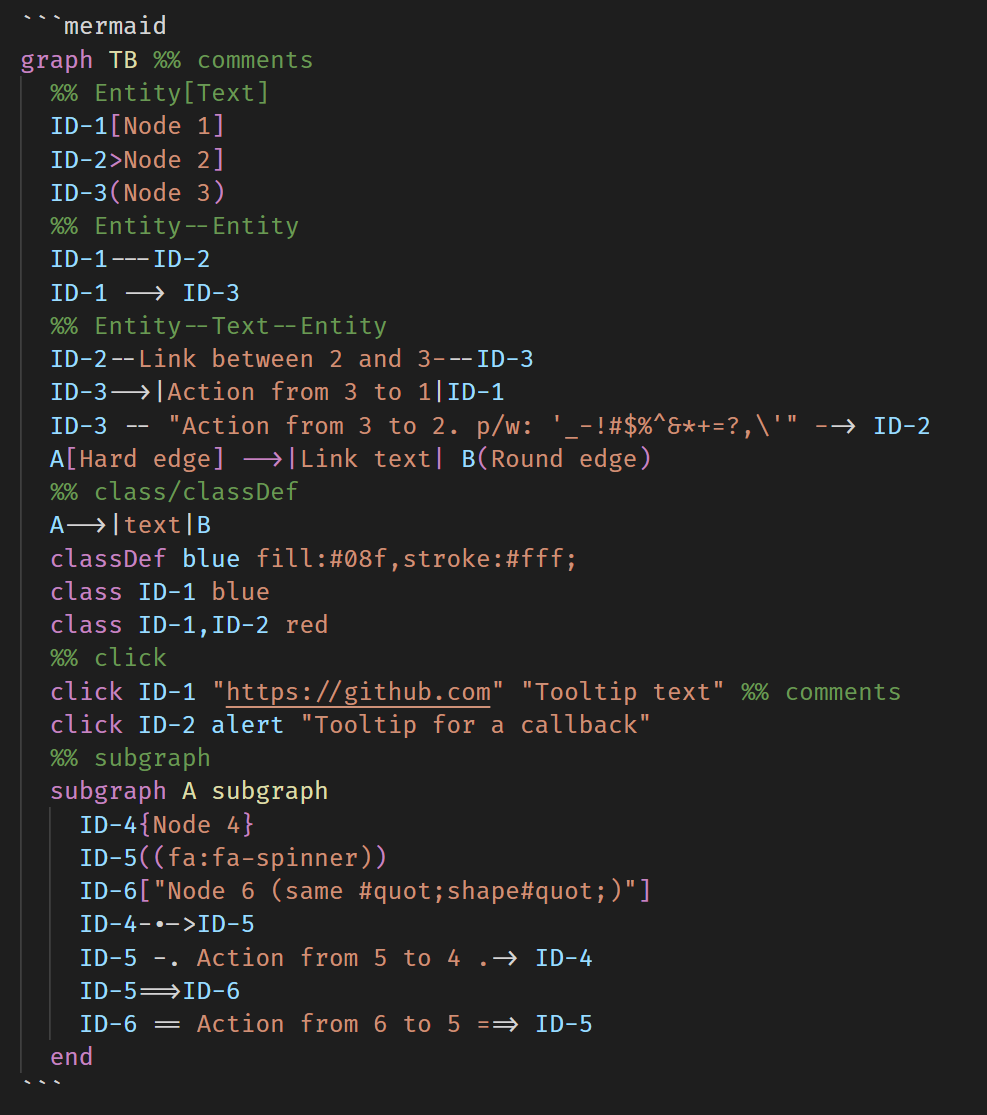
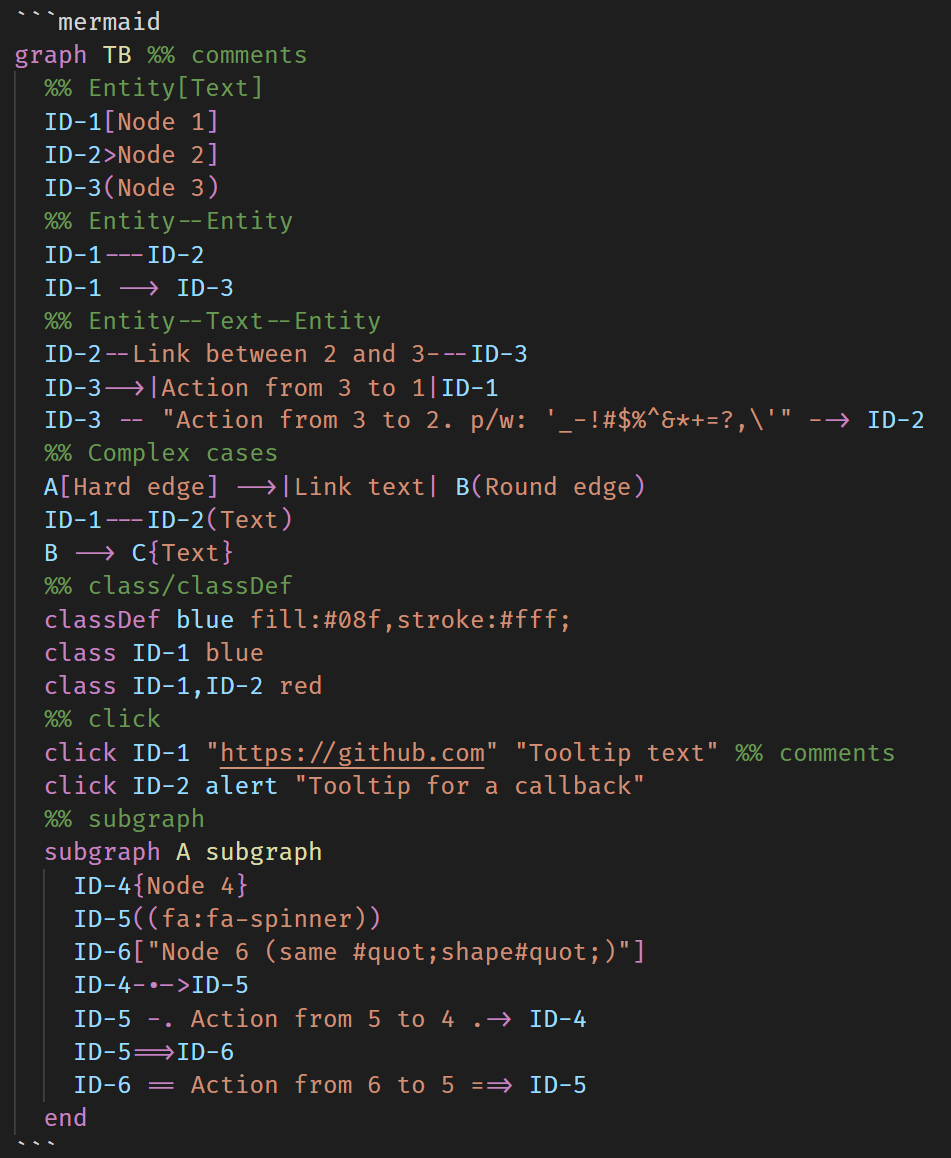
feat: add graph support for text after 2nd entity

Changed region(s): [[0.0, 0.0, 0.9453, 0.9758], [0.8843, 0.3354, 0.9758, 0.3964]]

diff --git a/README.md b/README.md
@@ -21,7 +21,10 @@ graph TB %% comments
   ID-2--Link between 2 and 3---ID-3
   ID-3-->|Action from 3 to 1|ID-1
   ID-3 -- "Action from 3 to 2. p/w: '_-!#$%^&*+=?,\'" --> ID-2
+  %% Complex cases
   A[Hard edge] -->|Link text| B(Round edge)
+  ID-1---ID-2(Text)
+  B --> C{Text}
   %% class/classDef
   classDef blue fill:#08f,stroke:#fff;
   class ID-1 blue
